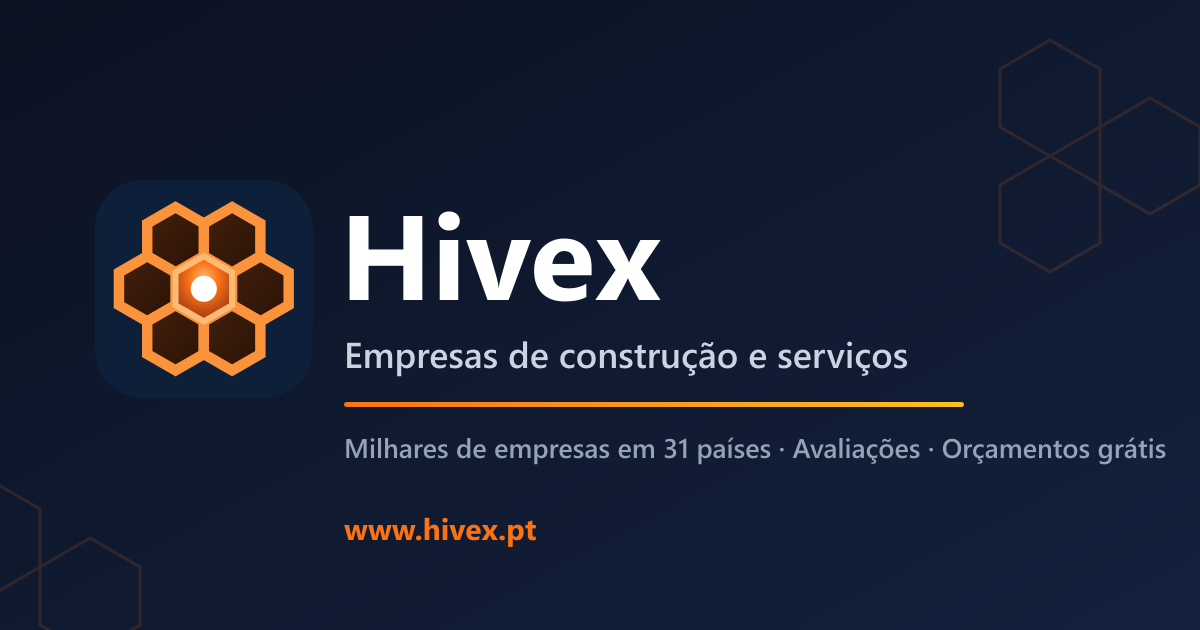
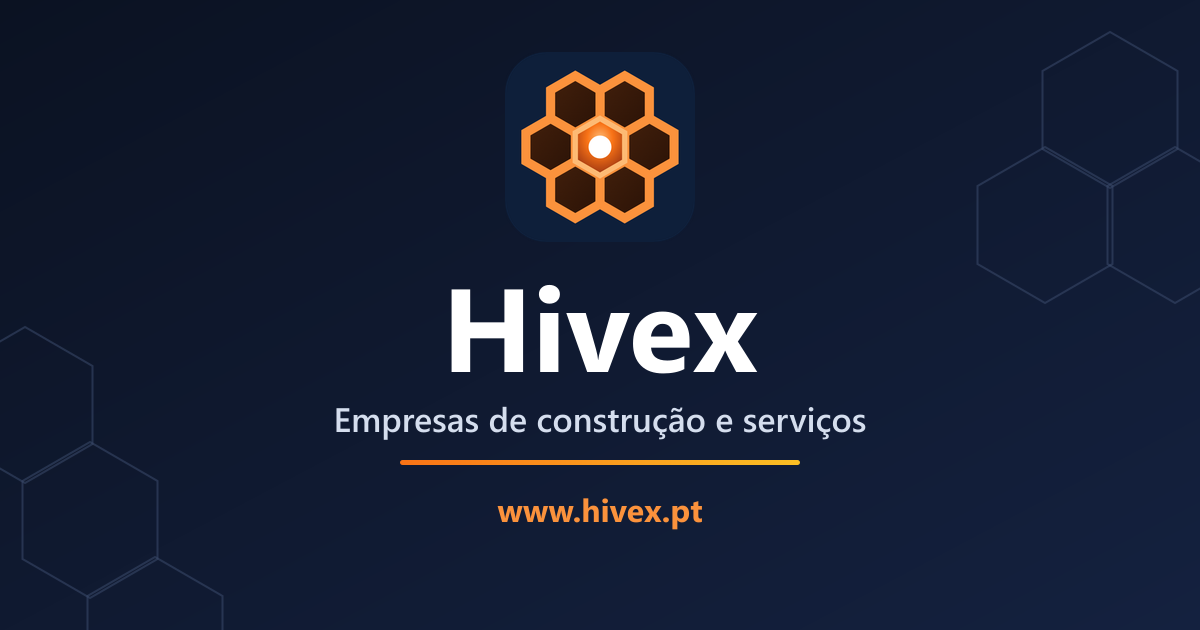
Pre-visualizacao ao partilhar: logotipo ao centro e resumo mais claro
- og-cover.png: logotipo e nome nos 630px centrais, para aparecerem tambem
  na miniatura quadrada do WhatsApp, que recorta ao centro (antes o logotipo
  ficava na borda esquerda e era cortado); PNG opaco; URL passa a ?v=2 porque
  as apps guardam a pre-visualizacao por URL
- resumo unico e curto em description, og e twitter (a description tinha 193
  caracteres e prometia 'os melhores profissionais')
- robots.txt autoriza /api/companies/*/logo: os logotipos sao a imagem das
  paginas /e/ e /c/ e os crawlers que respeitam robots nao a podiam ler
- paginas /e/ e /c/: resumo corta em palavra inteira, nunca a meio

diff --git a/hive/backend/src/app.js b/hive/backend/src/app.js
@@ -980,6 +980,15 @@ app.use('/api/favourites', favouritesRouter);
 
 // Slug canónico de empresa: minúsculas, sem acentos, não-alfanumérico → '-'.
 // Tem de coincidir com _companySlug() no frontend.
+// Resumos de pré-visualização: corta na última palavra inteira, nunca a meio.
+const cortaFrase = (s, n) => {
+  const t = String(s == null ? '' : s).replace(/\s+/g, ' ').trim();
+  if (t.length <= n) return t;
+  const c = t.slice(0, n - 1);
+  const e = c.lastIndexOf(' ');
+  return (e > n * 0.6 ? c.slice(0, e) : c).replace(/[\s,;:.·—-]+$/, '') + '…';
+};
+
 const hivexSlugify = s => String(s == null ? '' : s)
   .replace(/ß/g, 'ss').replace(/[æÆ]/g, 'ae').replace(/[øØ]/g, 'o').replace(/[œŒ]/g, 'oe').replace(/[łŁ]/g, 'l')
   .normalize('NFD').replace(/[̀-ͯ]/g, '')
@@ -1074,9 +1083,9 @@ app.get('/e/:id(\\d+)', async (req, res, next) => {
     const title = `${c.name}${c.city ? ' — ' + c.city : ''} | Hivex`;
     const bits = [];
     if (Number(c.rating) > 0) bits.push(`⭐ ${Number(c.rating).toFixed(1)}/5 (${c.reviews || 0})`);
-    if (c.description) bits.push(String(c.description).slice(0, 140));
+    if (c.description) bits.push(cortaFrase(c.description, 140));
     const desc = bits.join(' · ') || 'Encontre empresas de construção e serviços na Hivex.';
-    const img = c.has_logo ? `${BASE}/api/companies/${c.id}/logo?v=${c.logo_v}` : `${BASE}/og-cover.png?v=1`;
+    const img = c.has_logo ? `${BASE}/api/companies/${c.id}/logo?v=${c.logo_v}` : `${BASE}/og-cover.png?v=2`;
     res.set('Content-Type', 'text/html; charset=utf-8');
     res.set('Cache-Control', 'public, max-age=0, s-maxage=3600, stale-while-revalidate=86400');
     res.send(`<!doctype html><html lang="pt"><head><meta charset="utf-8">
@@ -1156,7 +1165,7 @@ app.get('/s/:sector/:city', async (req, res, next) => {
 <meta property="og:title" content="${esc(title)}">
 <meta property="og:description" content="${esc(desc)}">
 <meta property="og:url" content="${BASE}/s/${esc(sector)}/${esc(req.params.city)}">
-<meta property="og:image" content="${BASE}/og-cover.png?v=1">
+<meta property="og:image" content="${BASE}/og-cover.png?v=2">
 <link rel="canonical" href="${BASE}/s/${esc(sector)}/${esc(req.params.city)}">
 <script type="application/ld+json">${JSON.stringify(itemList)}</script>
 <style>body{font-family:system-ui;max-width:720px;margin:0 auto;padding:28px 18px;background:#0f172a;color:#e2e8f0}a{color:#93c5fd}li{margin:9px 0}h1{font-size:26px}.cta{display:inline-block;margin:18px 0;background:#f97316;color:#fff;padding:12px 22px;border-radius:10px;font-weight:700;text-decoration:none}</style>
@@ -1217,11 +1226,11 @@ app.get('/c/:idslug', async (req, res, next) => {
       `${c.name} é uma empresa de ${_listaPt}${c.city ? ' em ' + c.city : ''}.` +
       (_alvPt ? ` Está registada no IMPIC, o regulador da construção em Portugal, com o alvará n.º ${_alvPt}.` : '') +
       (c.email ? ' Pode pedir-lhe um orçamento diretamente pela Hivex.' : '');
-    const desc = ((c.description
-        ? String(c.description).replace(/\s+/g, ' ').slice(0, 120) + ' · '
-        : autoDesc.slice(0, 120) + ' · ') +
-      `${label}${c.city ? ' em ' + c.city : ''}. Contactos, avaliações e orçamento grátis na Hivex.`).slice(0, 160);
-    const img = c.has_logo ? `${BASE}/api/companies/${c.id}/logo?v=${c.logo_v}` : `${BASE}/og-cover.png?v=1`;
+    const desc = cortaFrase((c.description
+        ? cortaFrase(c.description, 100) + ' · '
+        : cortaFrase(autoDesc, 100) + ' · ') +
+      `${label}${c.city ? ' em ' + c.city : ''}. Contactos, avaliações e orçamento grátis na Hivex.`, 160);
+    const img = c.has_logo ? `${BASE}/api/companies/${c.id}/logo?v=${c.logo_v}` : `${BASE}/og-cover.png?v=2`;
     const spaUrl = `/?company=${c.id}`;
     const ld = {
       '@context': 'https://schema.org',

diff --git a/hive/frontend/index.html b/hive/frontend/index.html
@@ -68,7 +68,7 @@
   <title>Hivex – Marketplace B2B & B2C de Construção em Portugal</title>
 
   <!-- SEO -->
-  <meta name="description" content="Hivex é o marketplace português que liga empresas e particulares aos melhores profissionais de construção. Pesquise por localização, compare avaliações verificadas e peça orçamentos em minutos."/>
+  <meta name="description" content="Encontre empresas de construção e serviços perto de si e peça orçamentos grátis, sem intermediários. Milhares de empresas em 31 países."/>
   <meta name="keywords" content="marketplace construção, empresas construção Portugal, orçamento construção, B2B construção, profissionais verificados, Hivex"/>
   <meta name="author" content="Hivex"/>
   <meta name="robots" content="index,follow"/>
@@ -78,12 +78,13 @@
   <meta property="og:type" content="website"/>
   <meta property="og:site_name" content="Hivex"/>
   <meta property="og:title" content="Hivex — Empresas de Construção e Serviços"/>
-  <meta property="og:description" content="Milhares de empresas em 31 países. Avaliações, contacto direto e orçamentos grátis — sem intermediários."/>
+  <meta property="og:description" content="Encontre empresas de construção e serviços perto de si e peça orçamentos grátis, sem intermediários. Milhares de empresas em 31 países."/>
   <meta property="og:url" content="https://www.hivex.pt/"/>
-  <meta property="og:image" content="https://www.hivex.pt/og-cover.png?v=1"/>
+  <meta property="og:image" content="https://www.hivex.pt/og-cover.png?v=2"/>
   <meta property="og:image:width" content="1200"/>
   <meta property="og:image:height" content="630"/>
   <meta property="og:image:type" content="image/png"/>
+  <meta property="og:image:alt" content="Logótipo da Hivex: empresas de construção e serviços"/>
   <meta property="og:locale" content="pt_PT"/>
   <meta property="og:locale:alternate" content="en_US"/>
   <meta property="og:locale:alternate" content="fr_FR"/>
@@ -93,8 +94,8 @@
   <!-- Twitter card -->
   <meta name="twitter:card" content="summary_large_image"/>
   <meta name="twitter:title" content="Hivex — Empresas de Construção e Serviços"/>
-  <meta name="twitter:description" content="Milhares de empresas em 31 países. Avaliações, contacto direto e orçamentos grátis."/>
-  <meta name="twitter:image" content="https://www.hivex.pt/og-cover.png?v=1"/>
+  <meta name="twitter:description" content="Encontre empresas de construção e serviços perto de si e peça orçamentos grátis, sem intermediários. Milhares de empresas em 31 países."/>
+  <meta name="twitter:image" content="https://www.hivex.pt/og-cover.png?v=2"/>
 
   <!-- PWA -->
   <link rel="manifest" href="manifest.json"/>
